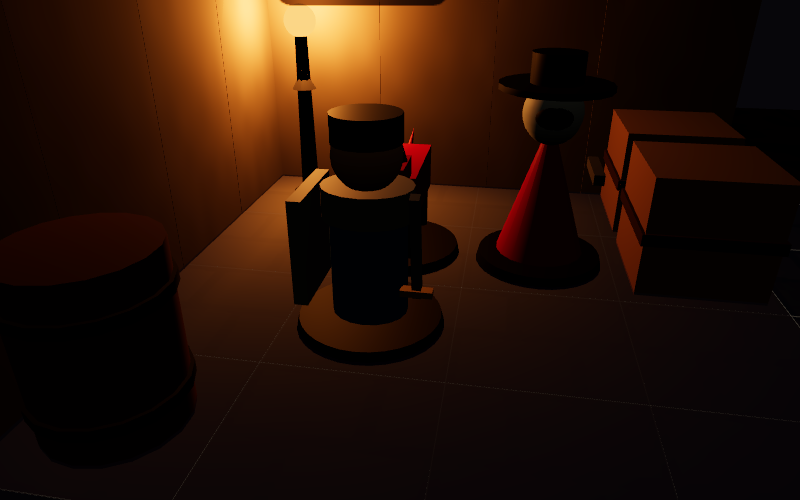
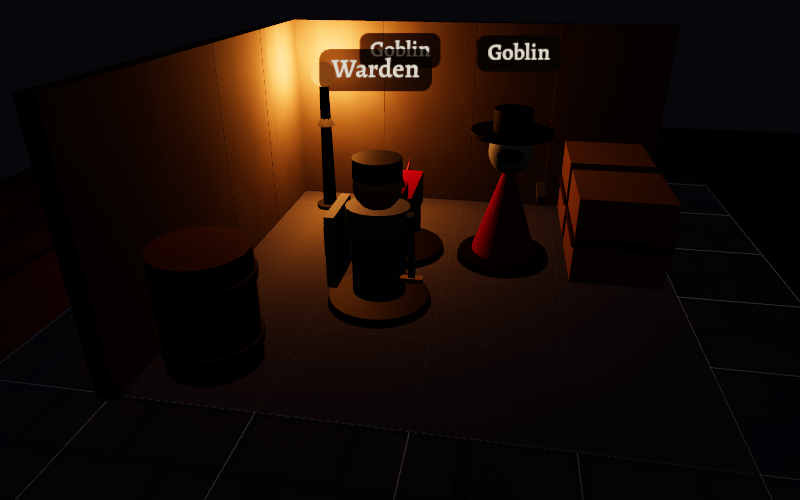
M62: pull ref-1's pose back to distance 6 for minis at human height (#152)
At the new scale the minis and their labels overflowed the frame. Goldens for
ref-1's close and dark poses re-baselined; m62 look metrics re-run (ref-1
0.189 -> 0.179) and its strip image refreshed. docs/LOOK.md points the
floating fixtures at #367.

Changed region(s): [[0.0312, 0.0, 1.0, 0.78], [0.0625, 0.42, 0.2188, 0.54], [0.9688, 0.6, 1.0, 0.63]]

diff --git a/server/fixtures/compositions.ts b/server/fixtures/compositions.ts
@@ -193,9 +193,10 @@ function ref1(): Fixture {
 			],
 			floors: [{ from: { x: 1, y: 1 }, to: { x: 4, y: 4 }, floor: 'stone' }]
 		},
-		// Reference 1 is low and close, facing the torch wall (owner's review, milestone 61).
+		// Reference 1 is low and close, facing the torch wall (owner's review, milestone 61),
+		// pulled back from 4.5 to 6 for minis at human height (owner, milestone 62).
 		sidecar(g, 'dark', 'ref1-mini-hero', { x: 2, y: 2 }, undefined, {
-			distance: 4.5,
+			distance: 6,
 			azimuth: 10,
 			elevation: 26
 		})

diff --git a/docs/LOOK.md b/docs/LOOK.md
@@ -189,7 +189,7 @@ within 0.009 of v0 (see `docs/RENDERING.md`), so what moved below is the scale.
 
 | Reference | m61   | m62   |
 | --------- | ----- | ----- |
-| 1         | 0.171 | 0.189 |
+| 1         | 0.171 | 0.179 |
 | 2         | 0.293 | 0.284 |
 | 3         | 0.130 | 0.137 |
 | 4         | 0.148 | 0.157 |
@@ -197,16 +197,18 @@ within 0.009 of v0 (see `docs/RENDERING.md`), so what moved below is the scale.
 | 7         | 0.136 | 0.115 |
 | 8         | 0.199 | 0.193 |
 
+- **Ref 1's pose pulled back** from distance 4.5 to 6 (owner, milestone 62): at human height the
+  minis and their labels overflowed the frame.
 - **Closer on refs 2, 7 and 8.** Walls and minis at human height fill more of the frame the way
   the references do.
-- **Further on the night pairings (refs 1, 3, 4 and 6), by 0.007–0.018.** Lamps now hang 1.6 u
+- **Further on the night pairings (refs 1, 3, 4 and 6), by 0.007–0.014.** Lamps now hang 1.6 u
   up instead of 1 u, so the floor right under them is dimmer and the torch-lit centres of these
   close shots darker, against references that are brighter there. The lighting milestone (#115)
   moves these, not the scale.
 - **Seen in the strip, left for later:** a light's fixture (a post with a flame at 1.5 u) stands
   on top of props that already are the light (the braziers of ref 6, the sconce of ref 1), and
-  their bowls are no longer lit from inside; lights that belong to a prop should take its shape
-  instead. The monastery's low golden looks at the wall of Oswin's cell, since a low camera
+  their bowls are no longer lit from inside; #367 seats those flames on their props until #232
+  gives every light a fixture of its kind. The monastery's low golden looks at the wall of Oswin's cell, since a low camera
   can't see over 2 u walls; dithering occluders between the camera and the minis (#283) fixes it.
 
 ## Target palettes
